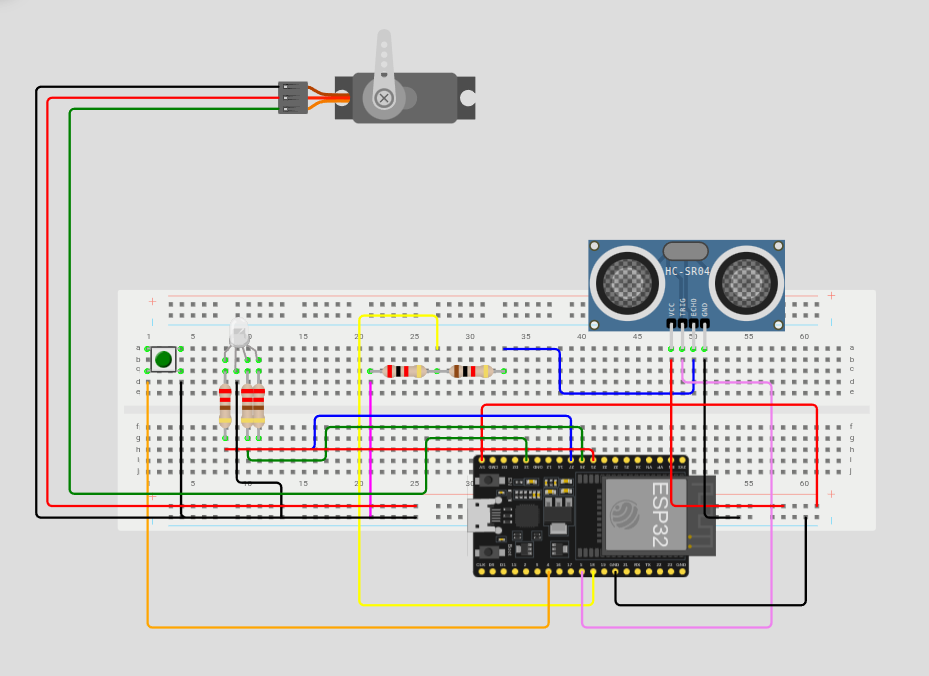
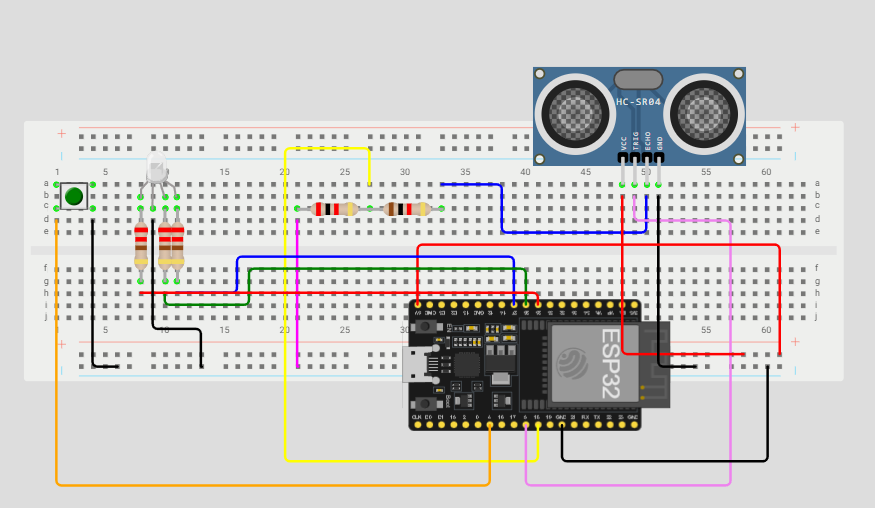
Update the README

Changed region(s): [[0.0309, 0.0886, 0.9257, 0.9744]]

diff --git a/README.md b/README.md
@@ -18,14 +18,10 @@ ESP-NOW, plus a platform that lets a human watch both of them live.
 | MCU | ESP32 DevKitC (ESP-WROOM-32) | ESP32 DevKitC (ESP-WROOM-32) |
 | MAC | `78:42:1c:68:44:98` | `f4:65:0b:c0:e0:a4` |
 | Sensor | PIR HC-SR501 — motion inside | HC-SR04 — distance at the door |
-| Input | — | 3-pin access switch — the credential |
-| Actuator | active buzzer — alarm | RGB LED — door state (node_b's only physical output) |
-| Status indicator | RGB LED | — (the RGB LED above is the actuator) |
+| Input | — | 2-pin access switch — the credential |
+| Actuator | active buzzer — alarm RGB LED status | RGB LED — door state |
+| Status indicator | RGB LED | RGB LED|
 | Radio | ESP-NOW (peer) + Wi-Fi (MQTT) | ESP-NOW (peer) + Wi-Fi (MQTT) |
-
-**node_b is the door. node_a is the protected room.** The directory names `node_a` and `node_b`
-are identifiers only; they were assigned before the roles were settled and renaming them would
-break working builds for no benefit.
 
 In one sentence: with access closed, motion in the room makes node_a sound its buzzer and turns
 node_b's LED to blinking red, until someone turns the access switch on at the door.
@@ -33,21 +29,19 @@ node_b's LED to blinking red, until someone turns the access switch on at the do
 ### Why two identical ESP32s
 
 Both boards carry their own radio, so each node is an independent MQTT client and the dashboard
-reaches either one directly — neither node depends on the other to be visible. The wire format
-lives in an ESP-IDF component shared by both projects, so there is one copy of that code compiled
-into two firmwares rather than two copies drifting apart.
+reaches either one directly, neither node depends on the other to be visible. The wire format
+lives in an ESP-IDF component shared by both projects.
 
 ---
 
 ## Technology stack
 
 Everything on the microcontroller is ESP-IDF. The communication layer uses the native Espressif
-APIs directly — no Arduino framework and no third-party networking wrappers anywhere in the
-firmware.
+APIs directly.
 
 | Layer | Technology | Why this one |
 |---|---|---|
-| Firmware | **C++17 on ESP-IDF v5.5.5** | Native Espressif framework. Version pinned because `esp_now_recv_info_t` does not exist before v5.1 |
+| Firmware | **C++17 on ESP-IDF v5.5.5** | Native Espressif framework. |
 | Build | **CMake + Ninja**, driven by `idf.py` | ESP-IDF's own build system |
 | Code sharing | **ESP-IDF components** via `EXTRA_COMPONENT_DIRS` | `shared/core` and `shared/net` are compiled into both node projects |
 | Node ↔ node | **ESP-NOW** (`esp_now`, unicast, registered peer) | Connectionless, no broker, no IP; hardware delivery ACK |
@@ -55,190 +49,45 @@ firmware.
 | Node ↔ platform | **`esp-mqtt`** to a **Mosquitto** broker | Event-driven client with automatic reconnection |
 | Wire format, node ↔ node | **Packed binary struct**, 10 bytes | Compact on a constrained link, explicit byte layout |
 | Wire format, node ↔ platform | **JSON**, QoS 0 | Human-readable, inspectable live with `mosquitto_sub` |
-| Platform server | **Python 3 · Flask · Flask-SocketIO · paho-mqtt** | Stack I have built before and can explain line by line |
+| Platform server | **Python 3 · Flask · Flask-SocketIO · paho-mqtt** | Stack easy to build, and great for testing |
 | Dashboard | Server-rendered HTML + **Socket.IO** push, client vendored in `platform/static/` | No build step, works without internet |
 | Host tests | **CMake + CTest** | The wire-format parser compiles and runs on the laptop |
 
 Demonstrated on hardware: ESP-NOW, Wi-Fi station mode, MQTT, GPIO input and output, and
-HC-SR04 timing. I²C and SPI are not used.
+HC-SR04 timing.
 
-The ESP-NOW message layout is my own and is described in `shared/core/protocol.h`.
-
----
-
-## Progress — 4 to 8 October
-
-### Verified on hardware
-
-| Node | Item | Evidence |
-|---|---|---|
-| A ↔ B | ESP-NOW bidirectional peer link | cross-matched uptimes in both monitors; link-layer ACKs |
-| A → B | Motion alert over ESP-NOW with Wi-Fi up | node_a buzzer and red LED, node_b blinks red, dashboard shows ALERT (8 October) |
-| B → A | Access state over ESP-NOW with Wi-Fi up | switch on at node_b → node_a goes blue and silences the buzzer (6 and 8 October) |
-| B | HC-SR04 distance over a 1 kΩ/2 kΩ divider | ±1 cm steady, responds to a hand, 2 cm floor as the datasheet states |
-| B | Access switch, internal pull-up | closed / open levels read correctly |
-| A | PIR HC-SR501 with a 60 s warm-up | exactly one `MotionStarted` per rising edge, none during warm-up |
-| both | RGB LED — red / green / yellow / blue | channel test at boot, all colours correct |
-| both | Wi-Fi station mode, explicit configuration | both join channel 11; MAC printed matches the eFuse |
-| both | MQTT to Mosquitto | about one message per second per node, expected JSON |
-| platform | Live dashboard in a real browser | cards, LED mirror, distance bar, timeline (8 October) |
-| platform | Offline detection | unplugging node_b marks it offline on the dashboard (8 October) |
-| host | Protocol parser tests | 15 tests passed on 6 October; not re-run since |
-
-### Known limitations
-
-| Item | State |
-|---|---|
-| Router-off test | **Not run.** Both nodes are on the router's Wi-Fi, so ESP-NOW rides on that access point's channel (11). ESP-NOW needs no router by design, but the claim has not been tested with the router switched off, and each node's Wi-Fi retry loop could pull the radio off the channel |
-| Lease fail-safe | Implemented in node_a. The dashboard showing node_b offline is verified; node_a's own `access CLOSED (lease expired)` message after unplugging node_b is not recorded as checked |
-| PIR self-triggering | In two logs on 6 October the PIR fired every 7–10 s, including during warm-up. Whether that was movement or the sensor is not confirmed |
-| Buzzer current | The buzzer is driven straight from a GPIO. Its current was never measured; the multimeter's mA fuse is suspect |
-| Flash | Both binaries are about 875 KB in a 1 MB app partition, 14% free |
 
 ## Wiring
 
-Interactive diagram for node_b: **https://wokwi.com/projects/477013744279158785**
+Interactive diagram for node_b: **https://wokwi.com/projects/477329946358273025**
 
 ![node_b circuit](images/node_b_circuit.png)
 
-### Pin map
+Interactive diagram for node_a: **https://wokwi.com/projects/477331000260311041**
+![node_a circuit](images/node_a_circuit.png)
+### Pin map — node_a (room)
 
-| Signal | Node | GPIO | How it is wired |
-|---|---|---|---|
-| HC-SR04 `TRIG` | B | 5 | direct. 3.3 V is enough to trigger the burst |
-| HC-SR04 `ECHO` | B | 18 | **through a 1 kΩ / 2 kΩ divider** — see below |
-| HC-SR04 `VCC` | B | — | 5 V from the ESP32 board, ~15 mA |
-| Access switch | B | 4 | 3-pin switch: middle pin to GPIO 4, one outer pin to GND, the other unused. Internal pull-up, **no external resistor**. On reads 0 |
-| RGB LED R / G / B | B | 25 / 26 / 27 | 220 Ω in series per colour, common cathode to GND |
-| PIR output | A | 32 | direct, internal pull-down. The HC-SR501 output is already 3.3 V — no divider. Jumper on **H** (repeat trigger) |
-| PIR `VCC` | A | — | 5 V |
-| Buzzer | A | 14 | active buzzer straight off the pin, **no series resistor**: a 220 Ω resistor silenced it |
-| RGB LED R / G / B | A | 25 / 26 / 27 | same wiring as node_b |
+| Signal | GPIO | How it is wired |
+|---|---|---|
+| PIR `OUT` | 32 | direct, internal pull-down. The HC-SR501 output is already 3.3 V — no divider. Jumper on **H** (repeat trigger) |
+| PIR `VCC` / `GND` | — | 5 V and GND from the ESP32 board |
+| Buzzer `+` | 14 | active buzzer straight off the pin, **no series resistor**: a 220 Ω resistor silenced it. `−` to GND |
+| RGB LED R / G / B | 25 / 26 / 27 | 220 Ω in series per colour, common cathode to GND |
+
+### Pin map — node_b (door)
+
+| Signal | GPIO | How it is wired |
+|---|---|---|
+| HC-SR04 `TRIG` | 5 | direct. 3.3 V is enough to trigger the burst |
+| HC-SR04 `ECHO` | 18 | **through a 1 kΩ / 2 kΩ divider** — see below |
+| HC-SR04 `VCC` / `GND` | — | 5 V and GND from the ESP32 board, ~15 mA |
+| Access switch | 4 | 3-pin switch: middle pin to GPIO 4, one outer pin to GND, the other unused. Internal pull-up, **no external resistor**. On reads 0 |
+| RGB LED R / G / B | 25 / 26 / 27 | 220 Ω in series per colour, common cathode to GND |
 
 Pins deliberately avoided: 0, 2, 12 and 15 are strapping pins whose level at power-up selects
 the boot mode; 6–11 are wired to the module's internal SPI flash; 1 and 3 are UART0 and carry the
 serial console.
 
-### The HC-SR04 echo divider
-
-The sensor is powered at 5 V and drives its echo line to 5 V. The ESP32 tolerates 3.6 V
-absolute maximum (datasheet Table 12), so the echo cannot reach a GPIO directly.
-
-```
-HC-SR04 ECHO ──[ 1 kΩ ]──┬────────► GPIO 18
-                         │
-                      [ 2 kΩ ]
-                         │
-                        GND
-```
-
-```
-5.0 V × 2 kΩ / (1 kΩ + 2 kΩ) = 3.33 V
-```
-
-Both bounds matter. 3.33 V is below the 3.6 V maximum, and it is also above the 2.475 V minimum
-high-level input voltage (0.75 × VDD, Table 14) — so the pulse is both safe and recognised.
-Swapping the two resistors yields 1.67 V, which damages nothing and never registers as a logic
-high.
-
-### Power and grounding
-
-Both nodes run entirely from their ESP32 board: 5 V for the HC-SR04 and the PIR, 3.3 V for the
-logic. Nothing is powered from the MB-102 any more. Two lessons from it are kept, because they
-apply to any actuator added later:
-
-**Star grounding.** An actuator's return current goes back to its own supply. The grounds of
-the two supplies meet at one point, and that link carries only the signal reference, never
-load current. Return current through the shared ground wire shifts the reference the ESP32
-sees, and the symptom reads as a firmware bug.
-
-**MB-102 rails are split at the middle.** On the breadboard the top and bottom power rails
-are not bridged from the factory. A board wired across the gap gets no supply and no error
-message. This cost hours of debugging because nothing reports it.
-
----
-
-## Decisions taken 4–8 October
-
-**The servo is out of scope (6 October).** On the night of 5 October the MB-102 breadboard
-supply burned while the SG90 was stalled against an end stop. The probable cause: the LEDC pulse
-range started at 0.5 ms, commanding an angle the servo could not reach, so it kept pushing and
-drew roughly 700 mA continuously through a linear regulator fed at 12 V — about 4.9 W dissipated
-in a part rated near 1 W. The cause is probable, not confirmed. With two days to delivery,
-replacing the supply was a worse risk than dropping the actuator. The RC522 card reader is out
-of scope too: it satisfies no mandatory requirement, ESP-IDF ships no driver for it, and a
-third-party library would have to be explained under constraint #8.
-
-**The repository ignores build output (6 October).** The old `.gitignore` was written for an
-abandoned PlatformIO layout and ignored nothing real, so 2911 build artifacts were tracked
-and GitHub Linguist reported "CMake 39%, Assembly 37%, C++ 5%". It is rewritten for ESP-IDF.
-History was deliberately not rewritten: a `filter-repo` and force-push two days before delivery
-is not worth the risk, and Linguist reads the current tree. A bare `secrets.h` pattern matches
-at any depth, so the Wi-Fi and MQTT credentials never reach git.
-
-**A switch, not a pushbutton.** The credential is a level, not an event. `accessSwitchOn()`
-returns whether the switch is on, and access lasts exactly as long as it is. The first design was
-a pushbutton with a 3 s window; it was replaced because a level cannot be missed and leaves no
-timer to tune.
-
-**Access is a lease, so every failure ends armed.** node_b sends `AccessOpen` or `AccessClosed`
-on every switch change and repeats it every second. node_a counts access as open only while an
-`AccessOpen` from the last 3 s backs it. A dead node_b, a lost frame or a broken link all end
-with the alarm armed, never disarmed. Every message is idempotent, so duplicates need no
-filtering; `seq` gaps are only logged.
-
-**Incoming frames go through a queue.** The ESP-NOW callback runs in the Wi-Fi task and must not
-block. It drops frames from a non-peer MAC or that fail `protocol_parse()`, pushes the rest onto
-an 8-slot queue with timeout 0, and the main loop drains it. All control logic stays in one task.
-
-**The parser is stateless and lives in `shared/core`.** `protocol_parse()` checks length,
-version, type, source and event, and copies into the output only if every rule holds. Duplicate
-and loss detection by `seq` is receiver state, so it is not in the parser. `shared/core` has no
-ESP-IDF header, so it builds and is tested on the laptop.
-
-**State goes to the platform on change and every second.** Each node publishes its full state
-once a second, and at once when anything other than uptime or distance changes. The dashboard
-shows edges without waiting for the next tick. Distance is excluded from the change check because
-it jitters by a centimetre and would publish ten times a second.
-
-**The dashboard derives events from state, not from commands.** Every timeline entry is the
-difference between two consecutive reports. The UI shows only what a node reported, never what
-the platform assumed. Offline means three seconds of silence, because a node that loses power
-never gets to say goodbye.
-
-**The broker is anonymous, on purpose.** Mosquitto listens on `0.0.0.0:1883` with no password and
-no TLS. That is a prototype shortcut for a private network and is documented in
-`platform/mosquitto/ilu.conf`. A deployment would add a password file and TLS on 8883.
-
-**An input pin must be able to define its idle level.** The PIR moved from GPIO 34 to GPIO 32 so
-an internal pull-down is available. GPIO 34–39 are type `I` in the datasheet (Table 2) and have
-no internal pull resistors at all. An unheld high-impedance input does not read zero — it acts as
-an antenna and picks up mains hum. A 7930 µs "echo" turned out to be the portion of a 60 Hz half
-cycle sitting above the input threshold, and it cost two hours before being identified. In an
-alarm, a sensor that fabricates readings is worse than one that fails.
-
-**No return value may mean two different things.** `distanceCm()` originally returned 0 both for
-"no echo" and for "closer than one centimetre". That ambiguity hid the problem above for an
-entire debugging session. Failure modes are now distinct and visible.
-
-**The buzzer pin is read back.** The buzzer pin is configured as input and output so
-`alarmActive()` reports what the hardware is doing, not what the code intended. The platform
-shows the read-back value.
-
-**The status LED runs on plain GPIO, not PWM.** True orange needs PWM on the green channel;
-yellow does not, and a state indicator only has to be unambiguous. Dropping the PWM removed a
-timer, three channels and a function.
-
-**Explicit Wi-Fi configuration, never inherited.** `esp_wifi_set_storage(WIFI_STORAGE_RAM)` plus
-an explicit `esp_wifi_set_mode()`. Without them the driver restores mode and configuration from
-NVS, so the same source can boot into different radio modes on two boards depending on what the
-previous firmware left behind.
-
-**Virtual interfaces for the hardware abstraction.** One indirection per call and a vtable per
-object, against compile-time polymorphism which costs nothing at runtime. At ten calls per
-second the indirection is irrelevant next to 240 MHz, and the explainable option won.
-
----
 
 ## Behavior
 
@@ -259,25 +108,6 @@ react at once — node A sounds its buzzer, node B goes red — over ESP-NOW, wi
 involved. Turning the switch on is the acknowledgement: node B clears the alert and node A goes
 blue.
 
-### State machine
-
-There is no separate state-machine module. Each `main.cpp` reads its inputs, drains the ESP-NOW
-queue, picks an output and publishes its state. `shared/core/fsm_a.*` and `fsm_b.*` are empty
-files kept as placeholders.
-
-| node_a LED | State |
-|---|---|
-| yellow | warming up — readings not trusted |
-| green | armed, no motion |
-| red + buzzer | alarm — motion with access closed |
-| blue | access open — alarm disarmed |
-
-| node_b LED | State |
-|---|---|
-| red | access closed |
-| yellow | closed, something 4–15 cm from the sensor |
-| red, blinking | alert — node_a reported motion while access was closed |
-| green | access open |
 
 ### Tunable values
 
@@ -349,51 +179,6 @@ These were designed and are **not built**. They are listed so the README does no
 - **Wi-Fi power-save control.** `esp_wifi_set_ps` is not called. Modem sleep can hurt ESP-NOW
   reception; it was not a problem in the tests above.
 
----
-
-## Architecture
-
-```
-   PIR ──┐                                              ┌── HC-SR04
-         │   node_a — Room (ESP32)                      │   node_b — Door (ESP32)
-         │   sense → decide → actuate  ESP-NOW          │   sense → decide → actuate
-buzzer ◄─┤   RGB LED              ◄──────────────►      ├─► RGB LED
-         │                        packed binary frames  │   access switch
-         │                                              │
-         └──────────── Wi-Fi · MQTT (JSON) ─────────────┘
-                                  │
-                      ┌───────────▼────────────┐
-                      │  Mosquitto MQTT broker │
-                      └───────────┬────────────┘
-                                  │
-                   platform/app.py  ·  Flask + Flask-SocketIO
-                   ├─ last reported state of both nodes
-                   ├─ live dashboard        (Socket.IO push)
-                   └─ event timeline + offline watchdog
-```
-
-**Two representations, one per layer.** The peer link carries packed 10-byte binary frames
-(version, type, source, event, sequence, uptime); each node publishes JSON to MQTT. Compact where
-the link is constrained, readable where it is inspected.
-
-**Link-layer acknowledgement only.** The ESP-NOW send callback confirms the bytes reached the
-peer's radio — Espressif's own documentation is explicit that this is MAC-layer receipt and
-nothing more. The application does not yet confirm that a message was acted on. The access
-lease makes that safe for the one message that matters: a lost `AccessClosed` is corrected by
-the next one a second later.
-
-**ESP-NOW and Wi-Fi share one radio.** ESP-NOW needs no router, no association and no IP, but it
-does ride on the 802.11 physical layer as vendor-specific action frames. A radio can only be
-tuned to one channel at a time, so once a node associates with an access point its ESP-NOW frames
-go out on that AP's channel. Both nodes must therefore use the same AP. The ESP-NOW peer is
-registered with channel 0, meaning "whatever channel the station is on", so no number is
-hardcoded.
-
-The `docs/` folder was written for an earlier, abandoned design (PlatformIO, Arduino, DHT22, MQTT
-for node-to-node traffic). It has not been brought up to date, and this README and the source are
-what describe the system as built.
-
----
 
 ## Repository layout
 
